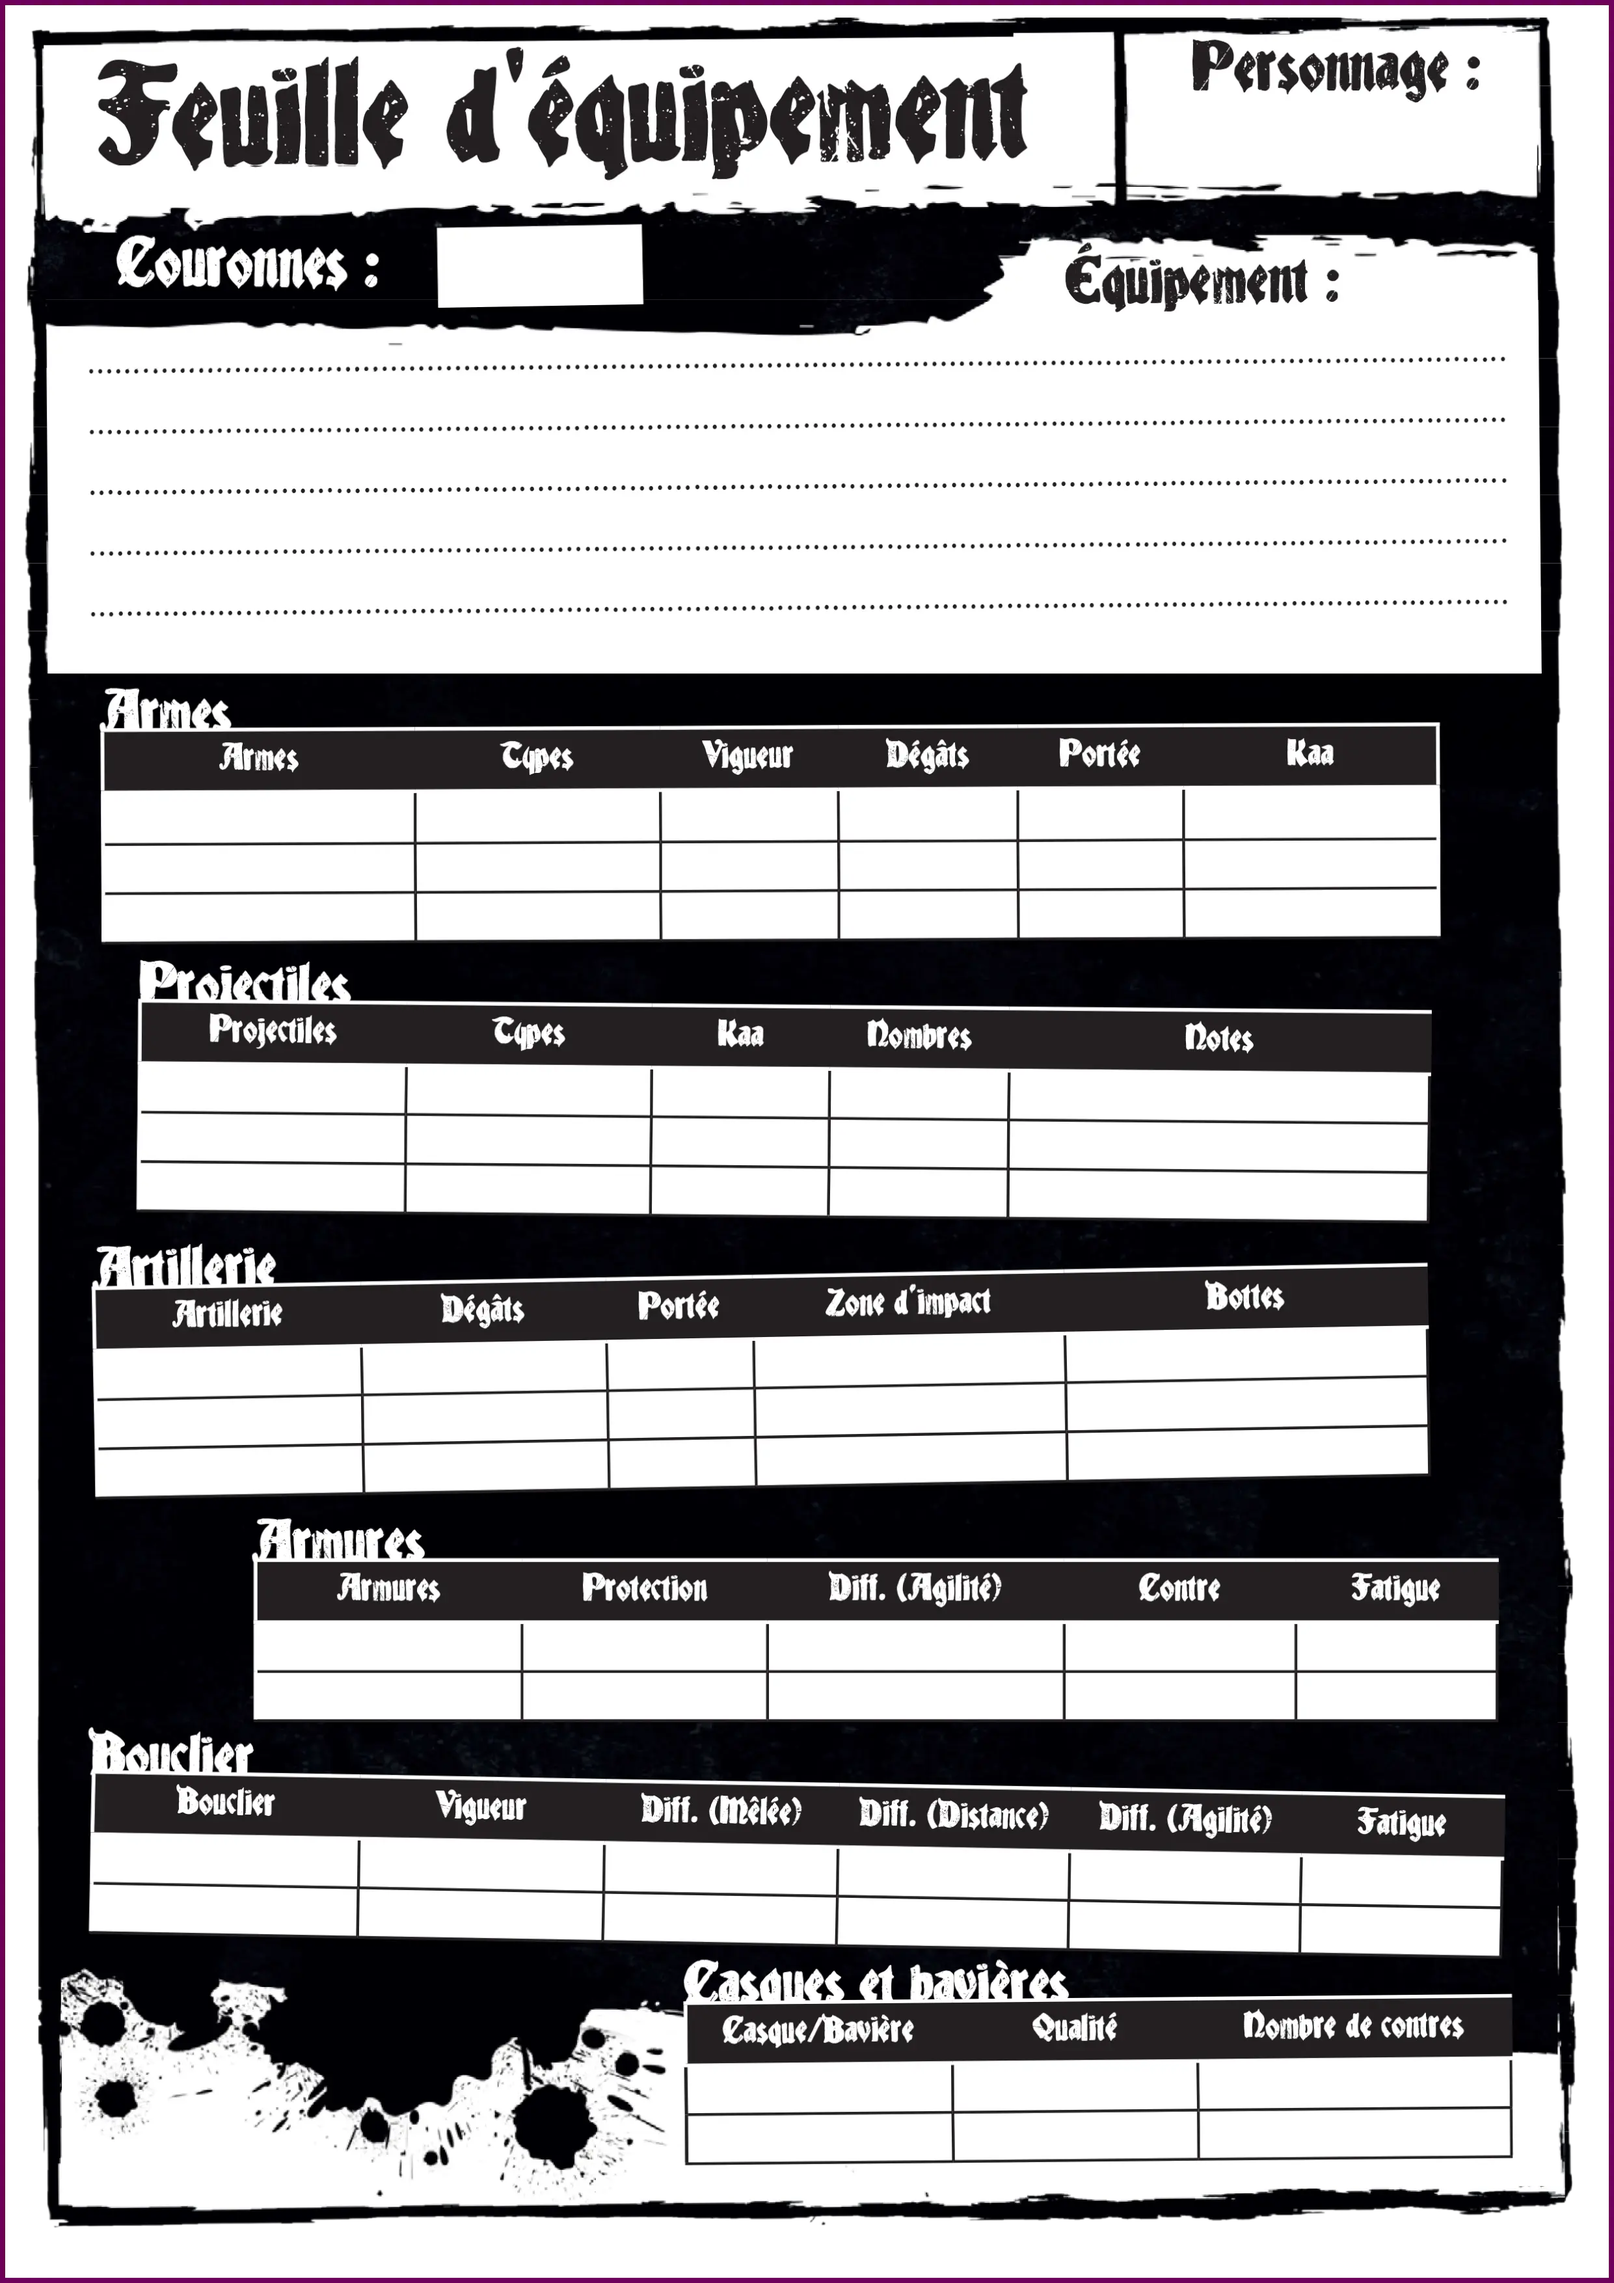
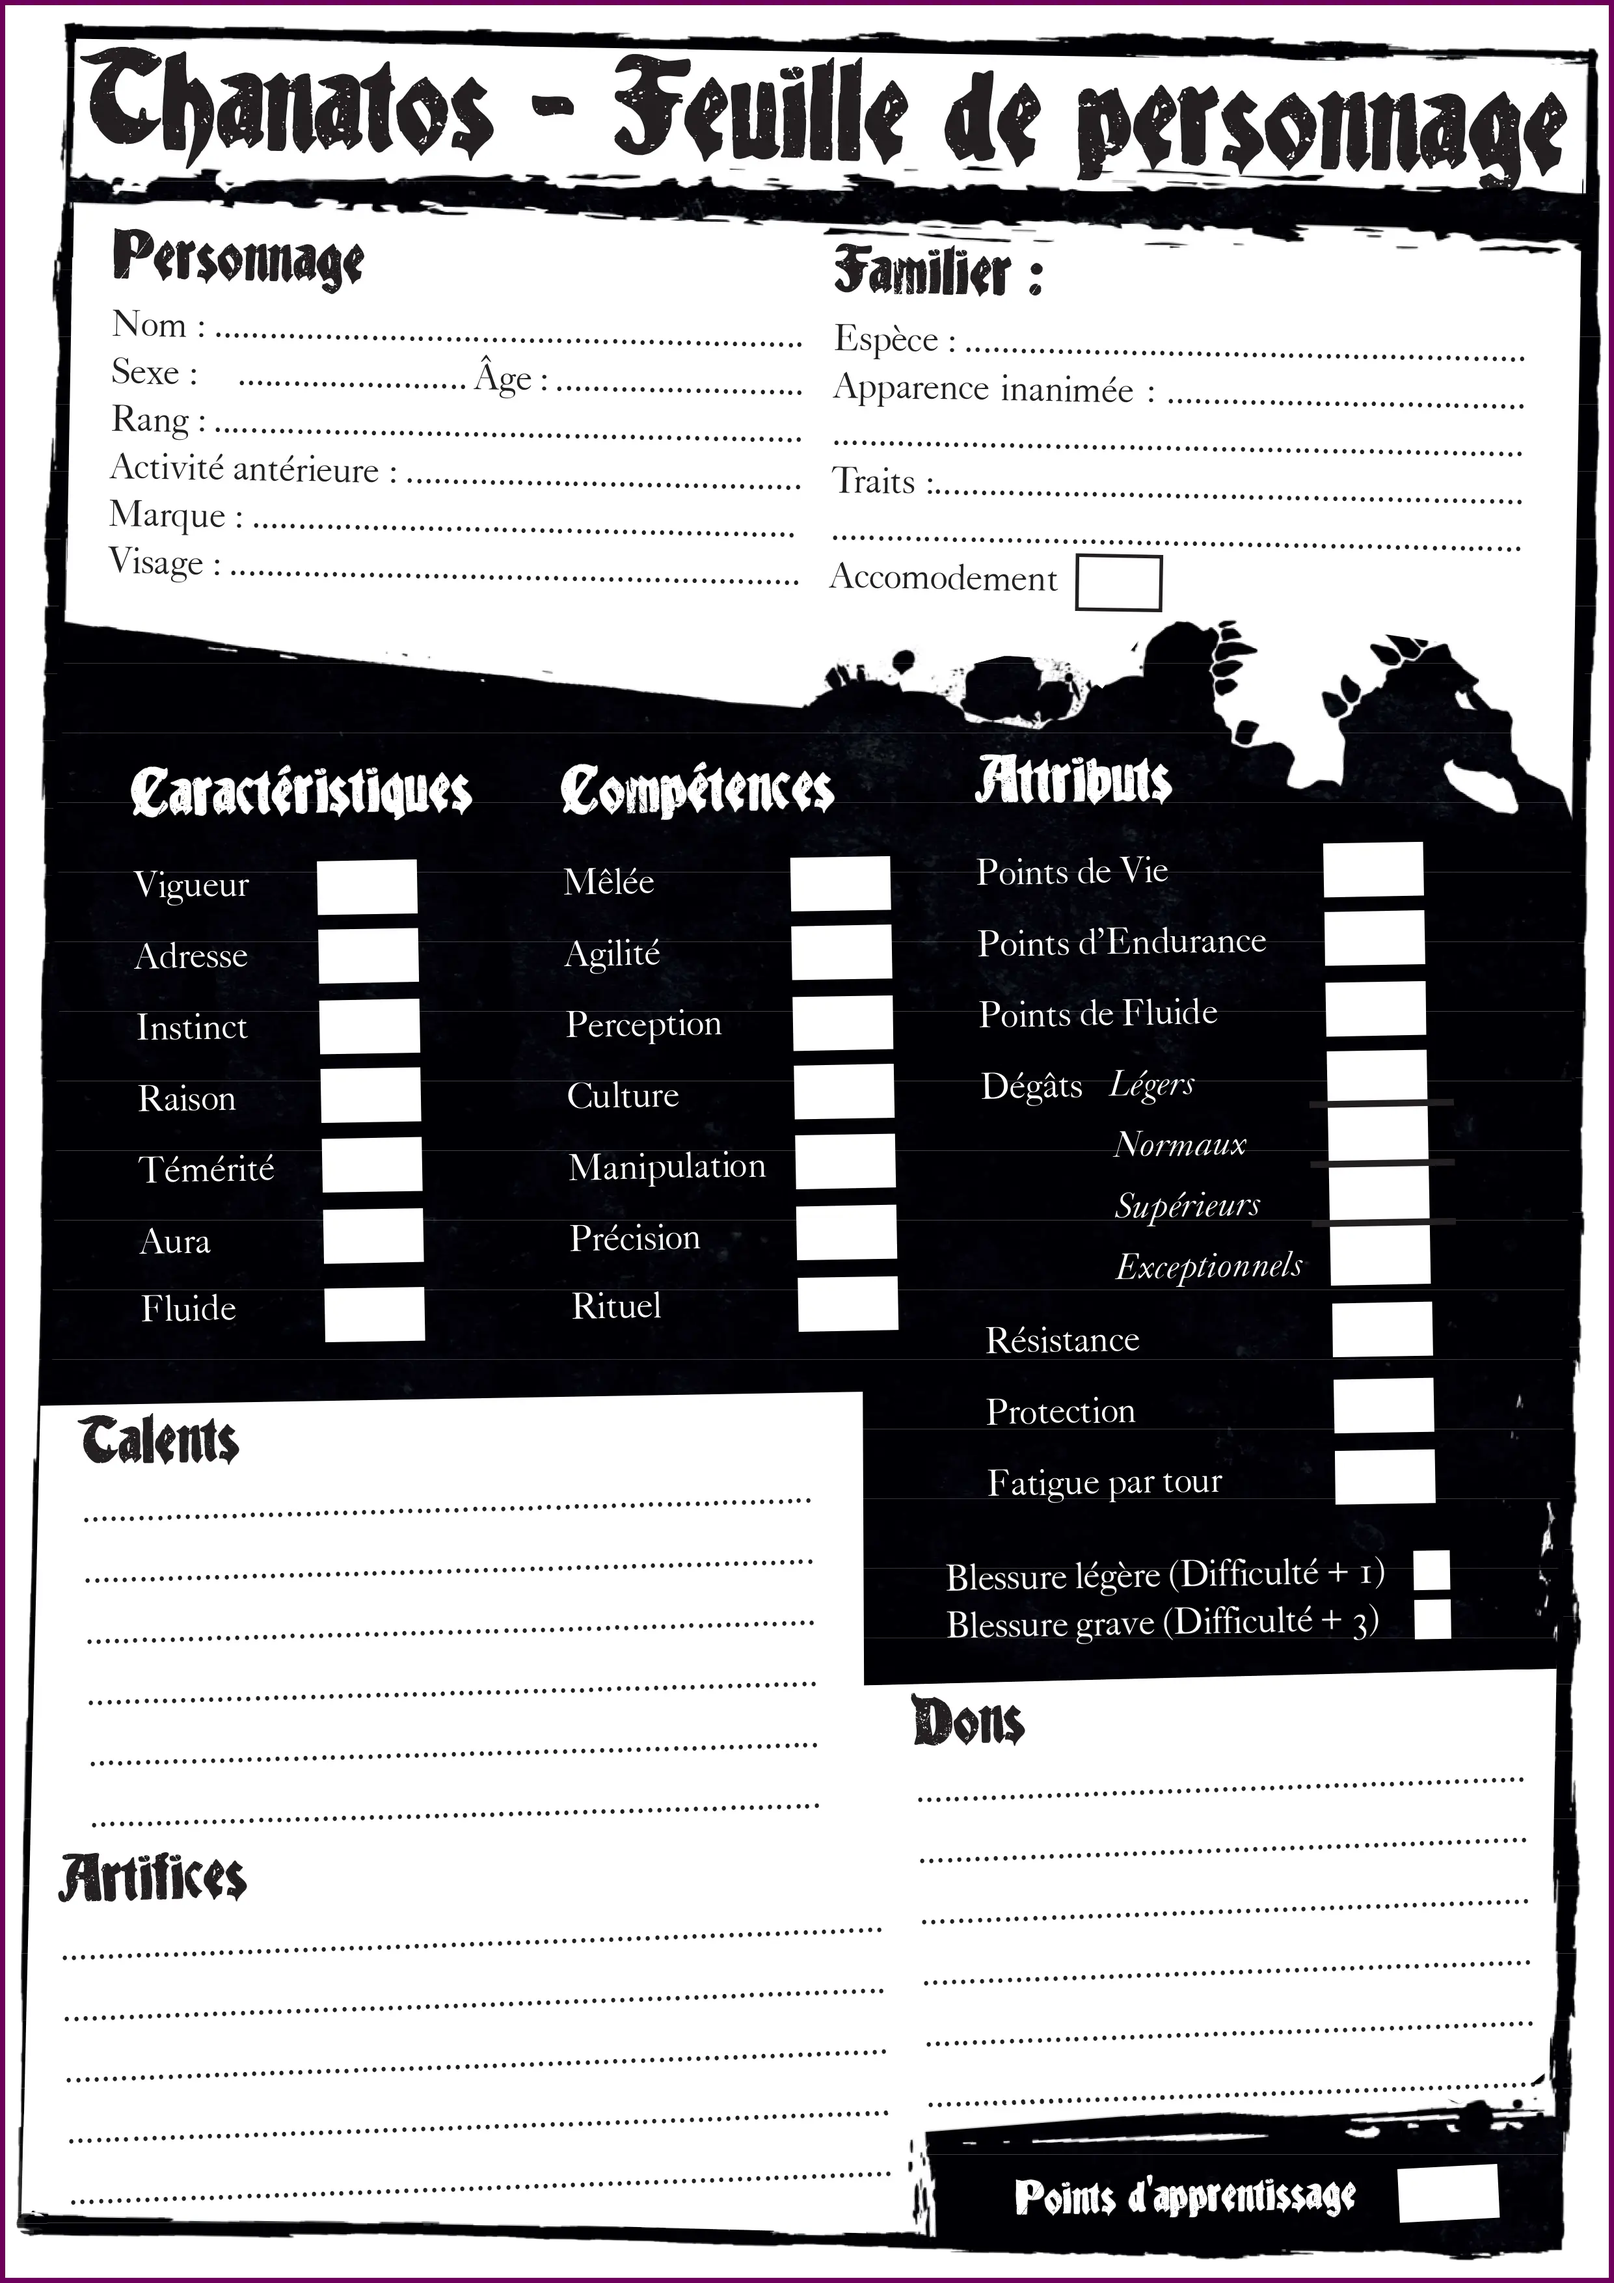
calque1

diff --git a/Thanatos/thanatos.css b/Thanatos/thanatos.css
@@ -70,7 +70,7 @@ body.sheet-darkmode .charsheet {
 div.personnage {  
     width: 830px;
     height: 1174px;
-	background-image: url(https://raw.githubusercontent.com/ctotone/JdR/refs/heads/main/Thanatos/images/background_personnage.webp);
+	background-image: url(https://raw.githubusercontent.com/ctotone/JdR/refs/heads/main/Thanatos/images/calque_1.webp);
     background-size: cover;
 	background-repeat: no-repeat;
 }
@@ -78,7 +78,7 @@ div.personnage {
 div.equipement {  
     width: 830px;
     height: 1174px;
-	background-image: url(https://raw.githubusercontent.com/ctotone/JdR/refs/heads/main/Thanatos/images/background_equipement.webp);
+	background-image: url(https://raw.githubusercontent.com/ctotone/JdR/refs/heads/main/Thanatos/images/calque_2.webp);
     background-size: cover;
 	background-repeat: no-repeat;
 }
@@ -86,7 +86,7 @@ div.equipement {
 div.parcours_de_vie {  
     width: 965px;
     height: 1368px;
-	background-image: url(https://raw.githubusercontent.com/ctotone/JdR/refs/heads/main/Thanatos/images/background_parcours.webp);
+	background-image: url(https://raw.githubusercontent.com/ctotone/JdR/refs/heads/main/Thanatos/images/calque_3.webp);
     background-size: cover;
 	background-repeat: no-repeat;
 }
@@ -94,7 +94,7 @@ div.parcours_de_vie {
 div.personnes_marquantes {  
     width: 965px;
     height: 1368px;
-	background-image: url(https://raw.githubusercontent.com/ctotone/JdR/refs/heads/main/Thanatos/images/background_personnes.webp);
+	background-image: url(https://raw.githubusercontent.com/ctotone/JdR/refs/heads/main/Thanatos/images/calque_4.webp);
     background-size: cover;
 	background-repeat: no-repeat;
 }
